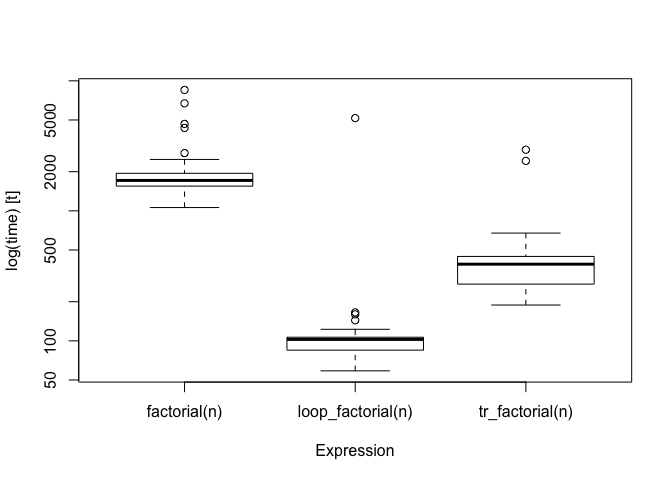
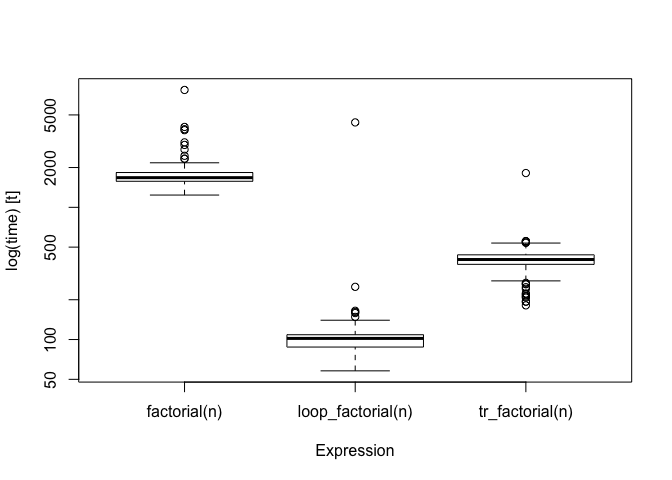
version 0.1.1

diff --git a/README.md b/README.md
@@ -3,12 +3,13 @@
 
 # tailr – Tail recursion optimisations for R programming
 
+[![Licence](https://img.shields.io/badge/licence-GPL--3-blue.svg)](https://www.gnu.org/licenses/gpl-3.0.en.html)
+[![lifecycle](https://img.shields.io/badge/lifecycle-maturing-blue.svg)](https://www.tidyverse.org/lifecycle/#maturing)
 [![Project Status: Active – The project has reached a stable, usable
 state and is being actively
 developed.](http://www.repostatus.org/badges/latest/active.svg)](http://www.repostatus.org/#active)
-[![Last-changedate](https://img.shields.io/badge/last%20change-2018--02--28-orange.svg)](/commits/master)
-[![lifecycle](http://img.shields.io/badge/lifecycle-experimental-orange.svg)](https://www.tidyverse.org/lifecycle/#experimental)
-[![Licence](https://img.shields.io/badge/licence-GPL--3-blue.svg)](https://www.gnu.org/licenses/gpl-3.0.en.html)
+[![Last-changedate](https://img.shields.io/badge/last%20change-2018--03--17-green.svg)](/commits/master)
+[![packageversion](https://img.shields.io/badge/Package%20version-0.1.1-green.svg?style=flat-square)](commits/master)
 
 [![Travis build
 status](https://travis-ci.org/mailund/tailr.svg?branch=master)](https://travis-ci.org/mailund/tailr)
@@ -19,10 +20,12 @@ status](https://codecov.io/gh/mailund/tailr/branch/master/graph/badge.svg)](http
 [![Coverage
 status](http://coveralls.io/repos/github/mailund/tailr/badge.svg?branch=master)](https://coveralls.io/github/mailund/tailr?branch=master)
 
+[![CRAN
+status](http://www.r-pkg.org/badges/version/tailr)](https://cran.r-project.org/package=tailr)
+[![CRAN
+downloads](http://cranlogs.r-pkg.org/badges/grand-total/tailr)](https://cran.r-project.org/package=tailr)
 [![minimal R
-version](https://img.shields.io/badge/R%3E%3D-3.1-blue.svg)](https://cran.r-project.org/)
-[![packageversion](https://img.shields.io/badge/Package%20version-0.1.0-green.svg?style=flat-square)](commits/master)
-[![CRAN\_Status\_Badge](http://www.r-pkg.org/badges/version/tailr)](https://cran.r-project.org/package=tailr)
+version](https://img.shields.io/badge/R-%E2%89%A53.2-blue.svg)](https://cran.r-project.org/)
 
 -----
 
@@ -41,6 +44,12 @@ The goal of `tailr` is to automatically transform tail-recursive
 functions into loops or trampolines.
 
 ## Installation
+
+You can install the released version of `tailr` from CRAN using
+
+``` r
+install.packages("tailr")
+```
 
 You can install tailr from GitHub with:
 
@@ -64,7 +73,7 @@ factorial <- function(n, acc = 1) {
 We can then, automatically, translate that into a looping version:
 
 ``` r
-tr_factorial <- tailr::loop_transform(factorial)
+tr_factorial <- tailr::loop_transform(factorial, byte_compile = FALSE)
 tr_factorial
 #> function (n, acc = 1) 
 #> {
@@ -88,7 +97,12 @@ tr_factorial(100)
 #> [1] 9.332622e+157
 ```
 
-We can then compare the running time with the recursive function and a
+I have disabled byte compilation to make running time comparisons fair;
+by default it is enabled. For a function as simple as `factorial`,
+though, byte compiling will not affect the running time in any
+substantial amount.
+
+We can compare the running time with the recursive function and a
 version that is written using a loop:
 
 ``` r
@@ -108,14 +122,14 @@ bm <- microbenchmark::microbenchmark(factorial(n),
                                      tr_factorial(n))
 bm
 #> Unit: microseconds
-#>               expr      min        lq      mean   median       uq      max
-#>       factorial(n) 1060.171 1549.4740 1913.4090 1713.880 1944.354 8509.096
-#>  loop_factorial(n)   58.790   84.8125  146.6675  102.599  106.656 5168.802
-#>    tr_factorial(n)  188.604  273.1550  418.8421  388.853  446.079 2951.480
-#>  neval
-#>    100
-#>    100
-#>    100
+#>               expr      min        lq      mean    median        uq
+#>       factorial(n) 1238.332 1574.1585 1864.1002 1676.3815 1833.4360
+#>  loop_factorial(n)   57.964   87.7235  142.9240  101.9705  108.7195
+#>    tr_factorial(n)  181.331  370.4770  408.5664  402.9685  437.2025
+#>       max neval
+#>  7723.191   100
+#>  4388.476   100
+#>  1816.852   100
 boxplot(bm)
 ```
 
@@ -226,6 +240,7 @@ tr_llength
 #>         }
 #>     })
 #> }
+#> <bytecode: 0x7fddfe174190>
 ```
 
 but, then, it is not one we want to manually inspect in any case.
@@ -247,14 +262,14 @@ bm <- microbenchmark::microbenchmark(llength(test_llist),
                                      tr_llength(test_llist))
 bm
 #> Unit: milliseconds
-#>                      expr      min       lq     mean   median        uq
-#>       llength(test_llist) 68.07866 76.34487 89.97757 81.73584  89.41849
-#>  loop_llength(test_llist) 73.21940 81.79118 98.12486 89.10334 102.31499
-#>    tr_llength(test_llist) 43.32049 49.75380 57.50893 54.22610  59.83531
-#>       max neval
-#>  331.3670   100
-#>  267.8227   100
-#>  200.1066   100
+#>                      expr      min       lq     mean   median       uq
+#>       llength(test_llist) 52.15034 62.94309 67.27350 65.32222 68.77446
+#>  loop_llength(test_llist) 54.48512 66.55713 70.13767 70.21095 74.21975
+#>    tr_llength(test_llist) 33.69783 41.62228 44.88733 45.06710 47.30268
+#>        max neval
+#>  118.54083   100
+#>   84.72679   100
+#>   58.92155   100
 boxplot(bm)
 ```
 

diff --git a/NEWS.md b/NEWS.md
@@ -1,3 +1,7 @@
+# tailr 0.1.1
+
+* Handles functions when they are local variables.
+
 # tailr 0.1.0
 
 * Initial release.
